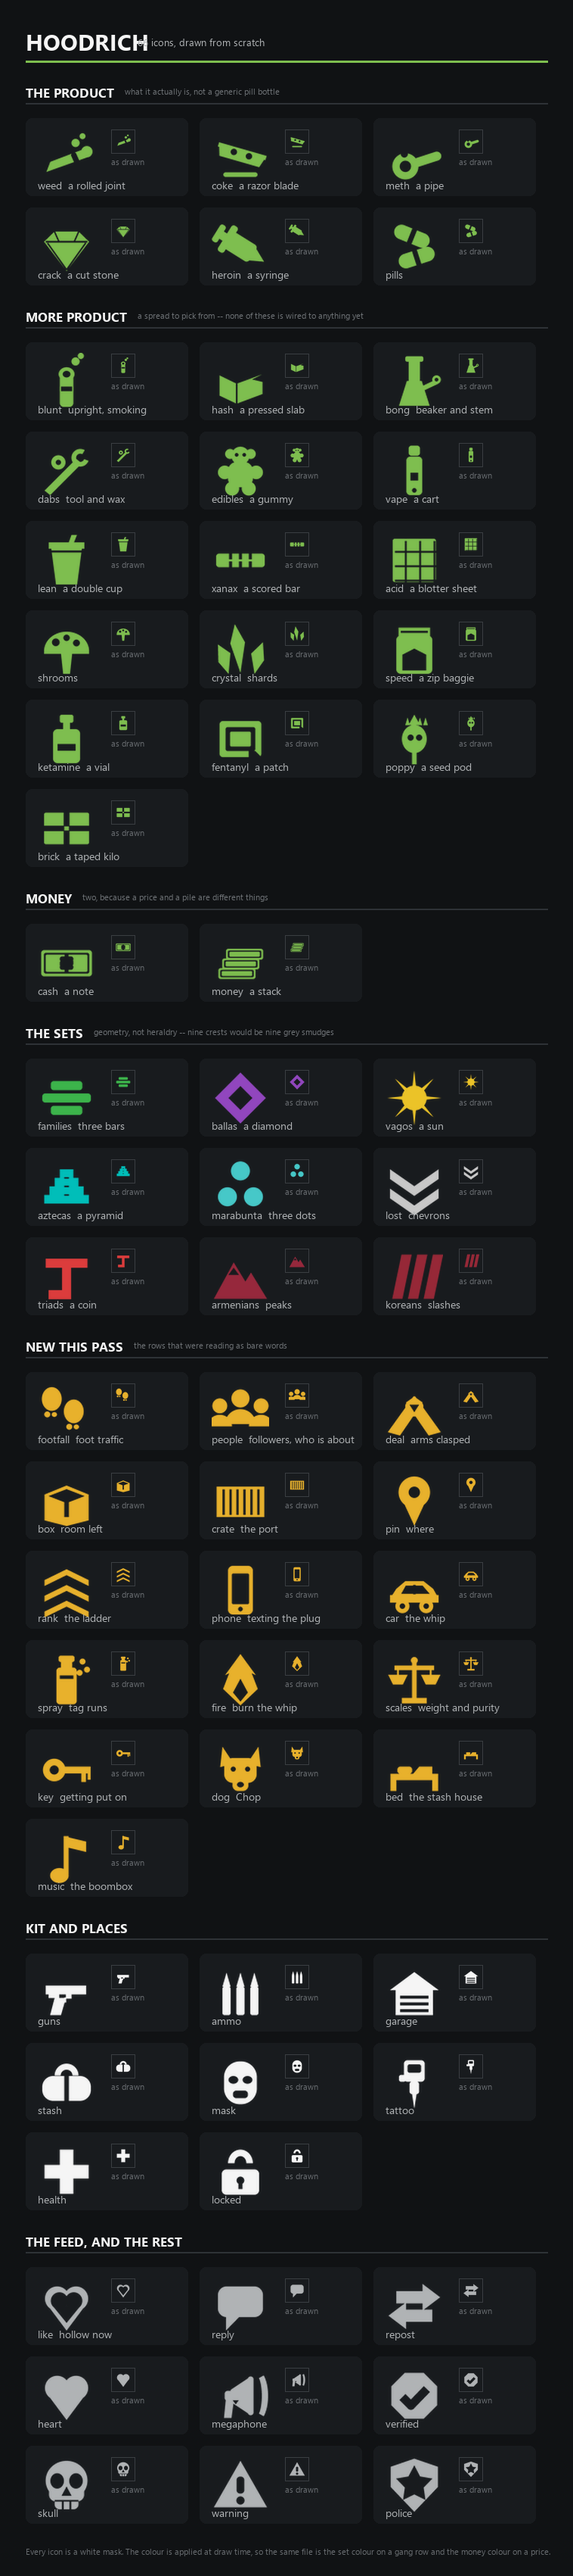
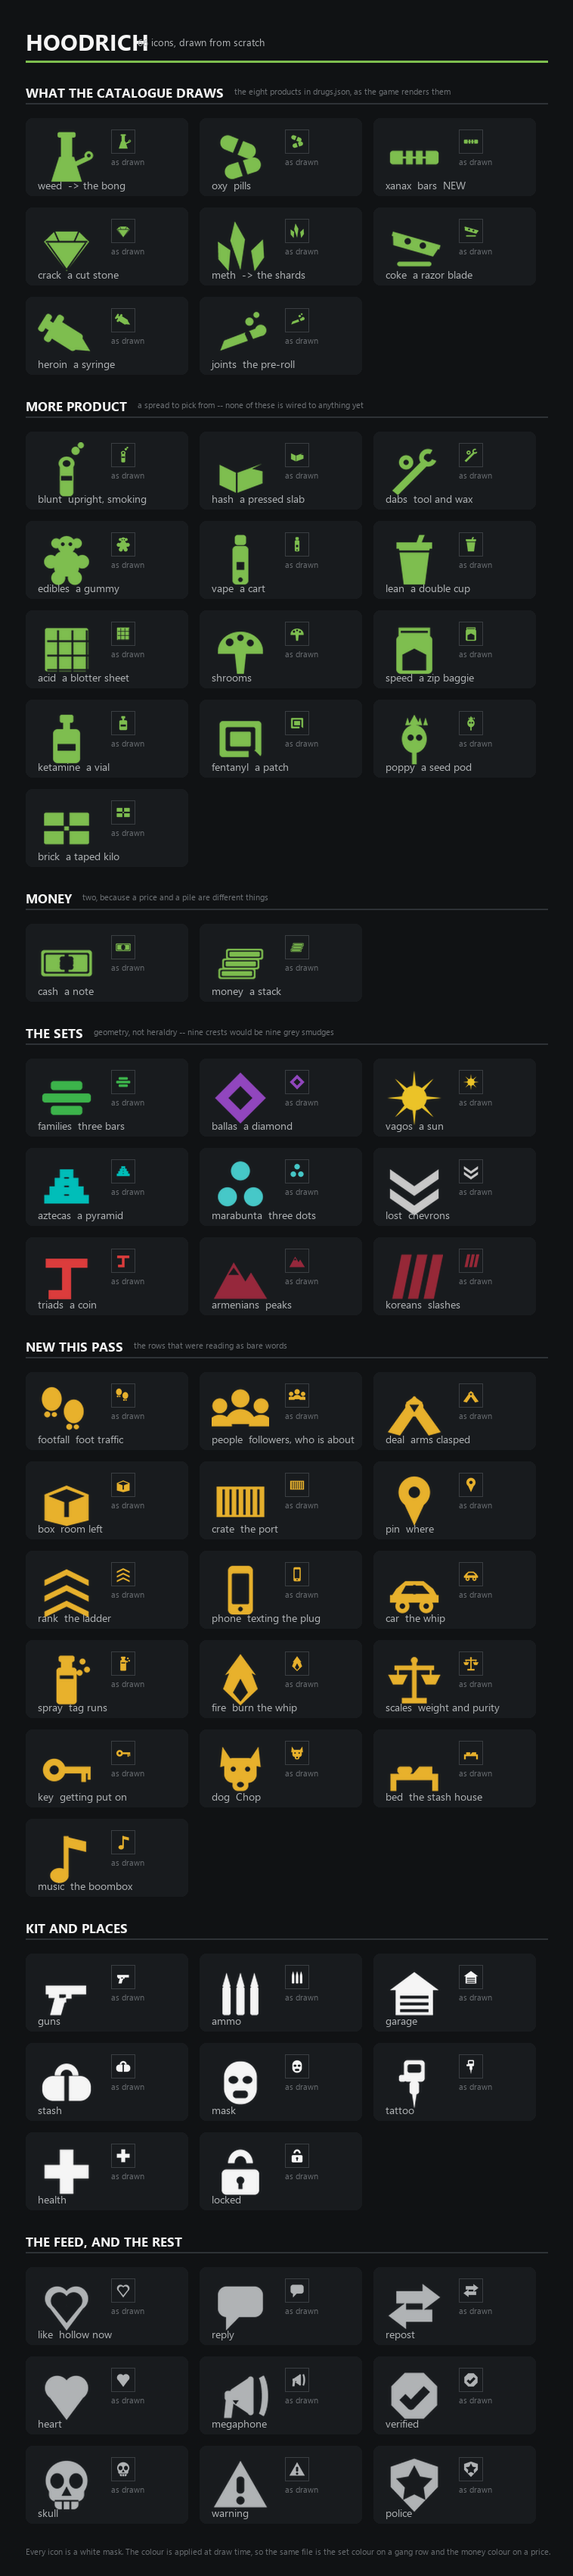
Weed is a bong, meth is shards, and xanax is on the shelf
Icons.Weed points at bong.png and Icons.Meth at crystal.png. The joint and the
pipe stay in the folder -- they are good drawings and the mapping is one line
if either is ever wanted back.

That left the tag run holding a bong. FixerTalk returned Icons.Weed for
MissionKind.Tags, which was a joint standing in for spray paint and is a bong
standing in for spray paint now. There has been a rattle can sitting unused
since the last batch, so it uses that.

Alprazolam, tag XAN, tier 2, counted in bars. It sits between the oxy and the
crack at $40 a bar against $25 and $100, with bulk falling to $34 a bar at five
-- monotonic, which is checked rather than assumed. Slotted directly after the
oxy so the two pill products stay together in every list that walks the
catalogue in order.

The Families and the Triads move it, both of them already pill sets. Tao Cheng
needs no change: his drugs list is empty, which DealerManager reads as the whole
catalogue bar anything madeOnly, so it is buyable in bulk from the port already.

No new tweets needed, and that is by design rather than an oversight -- Sale and
BigSale never name the product. "Whatever's moving on {here}, it's moving fast"
covers a bar the same way it covers a gram.

diff --git a/src/Hoodrich/UI/Icons.cs b/src/Hoodrich/UI/Icons.cs
@@ -126,7 +126,7 @@ namespace Hoodrich.UI
 
         // Product. The multiplayer inventory dictionary carries one sprite per drug, which is
         // as close to purpose-made art as this mod is ever going to get.
-        public static readonly Icon Weed = new Icon(Inventory, "mp_specitem_weed").WithFile("weed.png");
+        public static readonly Icon Weed = new Icon(Inventory, "mp_specitem_weed").WithFile("bong.png");
         public static readonly Icon Coke = new Icon(Inventory, "mp_specitem_coke").WithFile("coke.png");
         /// <summary>
         /// Crack, ecstasy and heroin have no sprite of their own anywhere in the game, so each
@@ -137,7 +137,7 @@ namespace Hoodrich.UI
         /// </summary>
         public static readonly Icon Crack = new Icon(Menu,
             "mp_specitem_crack", "shop_ammo_icon_a", "shop_franklin_icon_a").WithFile("crack.png");
-        public static readonly Icon Meth = new Icon(Inventory, "mp_specitem_meth").WithFile("meth.png");
+        public static readonly Icon Meth = new Icon(Inventory, "mp_specitem_meth").WithFile("crystal.png");
         public static readonly Icon Heroin = new Icon(Menu,
             "mp_specitem_heroin", "shop_michael_icon_a", "shop_health_icon_a").WithFile("heroin.png");
         /// <summary>
@@ -226,6 +226,7 @@ namespace Hoodrich.UI
                 case "heroin": return Heroin;
                 case "ecstasy":
                 case "pills": return Ecstasy;
+                case "xanax": return FromFile("xanax.png");
                 default: return new Icon();
             }
         }

diff --git a/src/Hoodrich/Missions/FixerTalk.cs b/src/Hoodrich/Missions/FixerTalk.cs
@@ -129,7 +129,7 @@ namespace Hoodrich.Missions
                 // A car, same as the drive-by -- it is still a job you do from one, and the
                 // burning is the part he does not put on the menu.
                 case MissionKind.TorchJob: return Icons.Garage;
-                case MissionKind.Tags: return Icons.Weed;
+                case MissionKind.Tags: return Icons.FromFile("spray.png");
                 case MissionKind.Hit: return Icons.Guns;
                 default: return Icons.Mask;
             }
